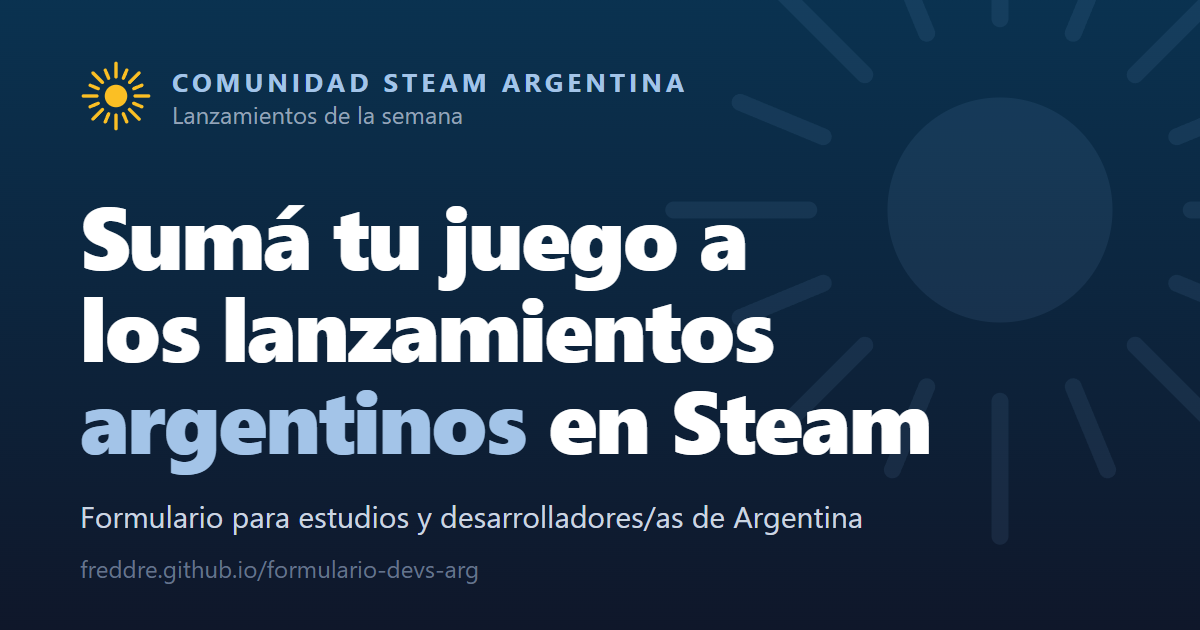
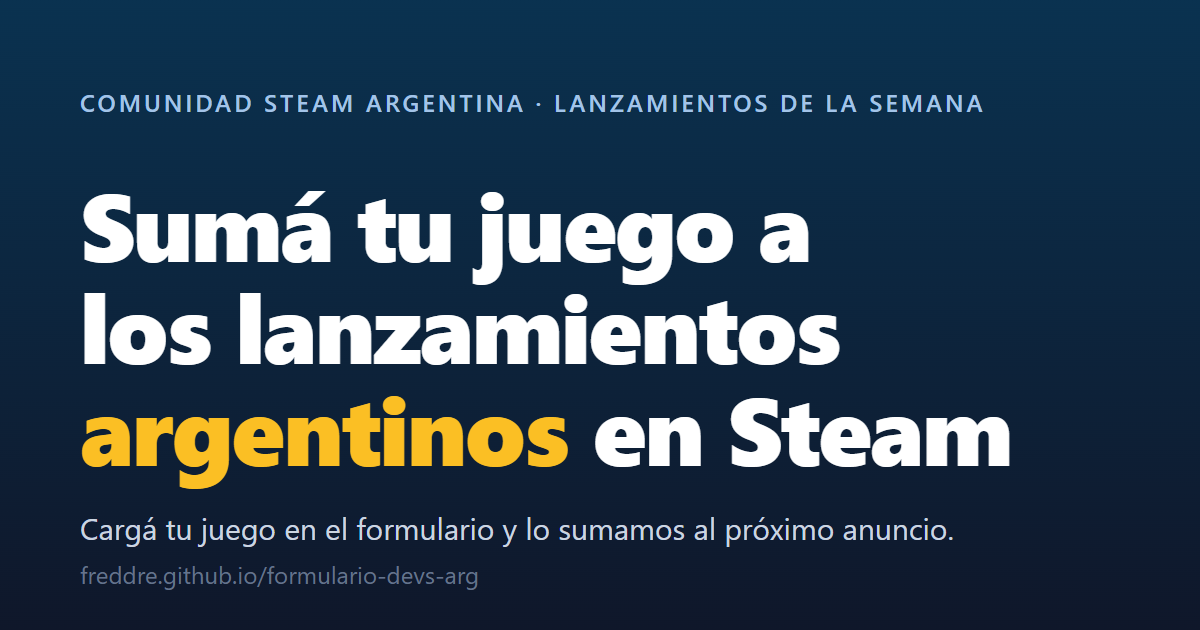
Remove the sun emblem and quick facts, highlight argentinos in yellow and break the hero paragraph
The hero goes back to a plain eyebrow line. The favicon returns to the flag tile and the share preview image drops the sun. Tests keep the header free of decorative graphics and quick facts.

Changed region(s): [[0.0617, 0.3016, 0.8633, 0.7841], [0.0617, 0.8143, 0.8017, 0.9349], [0.0617, 0.0905, 0.8325, 0.2111]]

diff --git a/docs/assets/index-B5moKPBN.css b/docs/assets/index-B5moKPBN.css
@@ -1,0 +1,2 @@
+/*! tailwindcss v4.3.3 | MIT License | https://tailwindcss.com */
+@layer properties{@supports (((-webkit-hyphens:none)) and (not (margin-trim:inline))) or ((-moz-orient:inline) and (not (color:rgb(from red r g b)))){*,:before,:after,::backdrop{--tw-space-y-reverse:0;--tw-border-style:solid;--tw-gradient-position:initial;--tw-gradient-from:#0000;--tw-gradient-via:#0000;--tw-gradient-to:#0000;--tw-gradient-stops:initial;--tw-gradient-via-stops:initial;--tw-gradient-from-position:0%;--tw-gradient-via-position:50%;--tw-gradient-to-position:100%;--tw-leading:initial;--tw-font-weight:initial;--tw-tracking:initial;--tw-shadow:0 0 #0000;--tw-shadow-color:initial;--tw-shadow-alpha:100%;--tw-inset-shadow:0 0 #0000;--tw-inset-shadow-color:initial;--tw-inset-shadow-alpha:100%;--tw-ring-color:initial;--tw-ring-shadow:0 0 #0000;--tw-inset-ring-color:initial;--tw-inset-ring-shadow:0 0 #0000;--tw-ring-inset:initial;--tw-ring-offset-width:0px;--tw-ring-offset-color:#fff;--tw-ring-offset-shadow:0 0 #0000;--tw-outline-style:solid}}}@layer theme{:root,:host{--font-sans:-apple-system, BlinkMacSystemFont, "Segoe UI", Roboto, "Helvetica Neue", "Noto Sans", Arial, sans-serif, "Apple Color Emoji", "Segoe UI Emoji", "Segoe UI Symbol", "Noto Color Emoji";--font-mono:ui-monospace, SFMono-Regular, Menlo, Monaco, Consolas, "Liberation Mono", "Courier New", monospace;--color-amber-300:oklch(87.9% .169 91.605);--color-amber-400:oklch(82.8% .189 84.429);--color-sky-950:oklch(29.3% .066 243.157);--color-slate-100:oklch(96.8% .007 247.896);--color-slate-200:oklch(92.9% .013 255.508);--color-slate-300:oklch(86.9% .022 252.894);--color-slate-400:oklch(70.4% .04 256.788);--color-slate-600:oklch(44.6% .043 257.281);--color-slate-800:oklch(27.9% .041 260.031);--color-slate-900:oklch(20.8% .042 265.755);--color-slate-950:oklch(12.9% .042 264.695);--color-black:#000;--color-white:#fff;--spacing:.25rem;--container-2xl:42rem;--container-3xl:48rem;--text-sm:.875rem;--text-sm--line-height:calc(1.25 / .875);--text-base:1rem;--text-base--line-height:calc(1.5 / 1);--text-lg:1.125rem;--text-lg--line-height:calc(1.75 / 1.125);--text-2xl:1.5rem;--text-2xl--line-height:calc(2 / 1.5);--text-3xl:1.875rem;--text-3xl--line-height:calc(2.25 / 1.875);--text-5xl:3rem;--text-5xl--line-height:1;--text-6xl:3.75rem;--text-6xl--line-height:1;--font-weight-medium:500;--font-weight-semibold:600;--font-weight-bold:700;--font-weight-extrabold:800;--tracking-tight:-.025em;--tracking-widest:.1em;--leading-relaxed:1.625;--radius-lg:.5rem;--radius-xl:.75rem;--radius-2xl:1rem;--default-font-family:var(--font-sans);--default-mono-font-family:var(--font-mono);--color-celeste-200:#cfe0f3;--color-celeste-300:#a3c4e8;--color-celeste-400:#75aadb}}@layer base{*,:after,:before,::backdrop{box-sizing:border-box;border:0 solid;margin:0;padding:0}::file-selector-button{box-sizing:border-box;border:0 solid;margin:0;padding:0}html,:host{-webkit-text-size-adjust:100%;tab-size:4;line-height:1.5;font-family:var(--default-font-family,-apple-system, BlinkMacSystemFont, "Segoe UI", Roboto, "Helvetica Neue", "Noto Sans", Arial, sans-serif, "Apple Color Emoji", "Segoe UI Emoji", "Segoe UI Symbol", "Noto Color Emoji");font-feature-settings:var(--default-font-feature-settings,normal);font-variation-settings:var(--default-font-variation-settings,normal);-webkit-tap-highlight-color:transparent}hr{height:0;color:inherit;border-top-width:1px}abbr:where([title]){-webkit-text-decoration:underline dotted;text-decoration:underline dotted}h1,h2,h3,h4,h5,h6{font-size:inherit;font-weight:inherit}a{color:inherit;-webkit-text-decoration:inherit;-webkit-text-decoration:inherit;-webkit-text-decoration:inherit;-webkit-text-decoration:inherit;text-decoration:inherit}b,strong{font-weight:bolder}code,kbd,samp,pre{font-family:var(--default-mono-font-family,ui-monospace, SFMono-Regular, Menlo, Monaco, Consolas, "Liberation Mono", "Courier New", monospace);font-feature-settings:var(--default-mono-font-feature-settings,normal);font-variation-settings:var(--default-mono-font-variation-settings,normal);font-size:1em}small{font-size:80%}sub,sup{vertical-align:baseline;font-size:75%;line-height:0;position:relative}sub{bottom:-.25em}sup{top:-.5em}table{text-indent:0;border-color:inherit;border-collapse:collapse}:-moz-focusring:where(:not(iframe)){outline:auto}progress{vertical-align:baseline}summary{display:list-item}ol,ul,menu{list-style:none}img,svg,video,canvas,audio,iframe,embed,object{vertical-align:middle;display:block}img,video{max-width:100%;height:auto}button,input,select,optgroup,textarea{font:inherit;font-feature-settings:inherit;font-variation-settings:inherit;letter-spacing:inherit;color:inherit;opacity:1;background-color:#0000;border-radius:0}::file-selector-button{font:inherit;font-feature-settings:inherit;font-variation-settings:inherit;letter-spacing:inherit;color:inherit;opacity:1;background-color:#0000;border-radius:0}:where(select:is([multiple],[size])) optgroup{font-weight:bolder}:where(select:is([multiple],[size])) optgroup option{padding-inline-start:20px}::file-selector-button{margin-inline-end:4px}::placeholder{opacity:1}@supports (not ((-webkit-appearance:-apple-pay-button))) or (contain-intrinsic-size:1px){::placeholder{color:currentColor}@supports (color:color-mix(in lab, red, red)){::placeholder{color:color-mix(in oklab, currentcolor 50%, transparent)}}}textarea{resize:vertical}::-webkit-search-decoration{-webkit-appearance:none}::-webkit-date-and-time-value{min-height:1lh;text-align:inherit}::-webkit-datetime-edit{display:inline-flex}::-webkit-datetime-edit-fields-wrapper{padding:0}::-webkit-datetime-edit{padding-block:0}::-webkit-datetime-edit-year-field{padding-block:0}::-webkit-datetime-edit-month-field{padding-block:0}::-webkit-datetime-edit-day-field{padding-block:0}::-webkit-datetime-edit-hour-field{padding-block:0}::-webkit-datetime-edit-minute-field{padding-block:0}::-webkit-datetime-edit-second-field{padding-block:0}::-webkit-datetime-edit-millisecond-field{padding-block:0}::-webkit-datetime-edit-meridiem-field{padding-block:0}::-webkit-calendar-picker-indicator{line-height:1}:-moz-ui-invalid{box-shadow:none}button,input:where([type=button],[type=reset],[type=submit]){appearance:button}::file-selector-button{appearance:button}::-webkit-inner-spin-button{height:auto}::-webkit-outer-spin-button{height:auto}[hidden]:where(:not([hidden=until-found])){display:none!important}}@layer components;@layer utilities{.visible{visibility:visible}.sr-only{clip-path:inset(50%);white-space:nowrap;border-width:0;width:1px;height:1px;margin:-1px;padding:0;position:absolute;overflow:hidden}.absolute{position:absolute}.relative{position:relative}.inset-x-0{inset-inline:0}.top-10{top:calc(var(--spacing) * 10)}.mx-auto{margin-inline:auto}.mt-0\.5{margin-top:calc(var(--spacing) * .5)}.mt-1{margin-top:var(--spacing)}.mt-2{margin-top:calc(var(--spacing) * 2)}.mt-3{margin-top:calc(var(--spacing) * 3)}.mt-4{margin-top:calc(var(--spacing) * 4)}.mt-5{margin-top:calc(var(--spacing) * 5)}.mt-6{margin-top:calc(var(--spacing) * 6)}.mt-8{margin-top:calc(var(--spacing) * 8)}.block{display:block}.flex{display:flex}.grid{display:grid}.hidden{display:none}.inline-block{display:inline-block}.inline-flex{display:inline-flex}.size-0{width:0;height:0}.size-4{width:calc(var(--spacing) * 4);height:calc(var(--spacing) * 4)}.size-5{width:calc(var(--spacing) * 5);height:calc(var(--spacing) * 5)}.size-6{width:calc(var(--spacing) * 6);height:calc(var(--spacing) * 6)}.size-11{width:calc(var(--spacing) * 11);height:calc(var(--spacing) * 11)}.h-\[539px\]{height:539px}.h-\[max\(2440px\,calc\(3126px_-_3\.56\*\(100vw_-_320px\)\)\,calc\(3205px_-_100vw\)\)\]{height:max(2440px,4265.2px - 356vw,3205px - 100vw)}.min-h-11{min-height:calc(var(--spacing) * 11)}.min-h-screen{min-height:100vh}.w-full{width:100%}.max-w-2xl{max-width:var(--container-2xl)}.max-w-3xl{max-width:var(--container-3xl)}.shrink-0{flex-shrink:0}.scroll-mt-6{scroll-margin-top:calc(var(--spacing) * 6)}.flex-wrap{flex-wrap:wrap}.items-center{align-items:center}.justify-between{justify-content:space-between}.justify-center{justify-content:center}.gap-2{gap:calc(var(--spacing) * 2)}.gap-3{gap:calc(var(--spacing) * 3)}.gap-4{gap:calc(var(--spacing) * 4)}:where(.space-y-3>:not(:last-child)){--tw-space-y-reverse:0;margin-block-start:calc(calc(var(--spacing) * 3) * var(--tw-space-y-reverse));margin-block-end:calc(calc(var(--spacing) * 3) * calc(1 - var(--tw-space-y-reverse)))}:where(.space-y-14>:not(:last-child)){--tw-space-y-reverse:0;margin-block-start:calc(calc(var(--spacing) * 14) * var(--tw-space-y-reverse));margin-block-end:calc(calc(var(--spacing) * 14) * calc(1 - var(--tw-space-y-reverse)))}.gap-x-6{column-gap:calc(var(--spacing) * 6)}.overflow-hidden{overflow:hidden}.scroll-smooth{scroll-behavior:smooth}.rounded-2xl{border-radius:var(--radius-2xl)}.rounded-full{border-radius:2147483647px}.rounded-lg{border-radius:var(--radius-lg)}.rounded-xl{border-radius:var(--radius-xl)}.border{border-style:var(--tw-border-style);border-width:1px}.border-0{border-style:var(--tw-border-style);border-width:0}.border-t{border-top-style:var(--tw-border-style);border-top-width:1px}.border-white\/10{border-color:#ffffff1a}@supports (color:color-mix(in lab, red, red)){.border-white\/10{border-color:color-mix(in oklab, var(--color-white) 10%, transparent)}}.bg-amber-400{background-color:var(--color-amber-400)}.bg-amber-400\/15{background-color:#fcbb0026}@supports (color:color-mix(in lab, red, red)){.bg-amber-400\/15{background-color:color-mix(in oklab, var(--color-amber-400) 15%, transparent)}}.bg-celeste-400\/15{background-color:#75aadb26}@supports (color:color-mix(in lab, red, red)){.bg-celeste-400\/15{background-color:color-mix(in oklab, var(--color-celeste-400) 15%, transparent)}}.bg-slate-800\/50{background-color:#1d293d80}@supports (color:color-mix(in lab, red, red)){.bg-slate-800\/50{background-color:color-mix(in oklab, var(--color-slate-800) 50%, transparent)}}.bg-slate-900{background-color:var(--color-slate-900)}.bg-slate-950{background-color:var(--color-slate-950)}.bg-white{background-color:var(--color-white)}.bg-linear-to-b{--tw-gradient-position:to bottom}@supports (background-image:linear-gradient(in lab, red, red)){.bg-linear-to-b{--tw-gradient-position:to bottom in oklab}}.bg-linear-to-b{background-image:linear-gradient(var(--tw-gradient-stops))}.from-sky-950\/70{--tw-gradient-from:#052f4ab3}@supports (color:color-mix(in lab, red, red)){.from-sky-950\/70{--tw-gradient-from:color-mix(in oklab, var(--color-sky-950) 70%, transparent)}}.from-sky-950\/70{--tw-gradient-stops:var(--tw-gradient-via-stops,var(--tw-gradient-position), var(--tw-gradient-from) var(--tw-gradient-from-position), var(--tw-gradient-to) var(--tw-gradient-to-position))}.to-slate-900{--tw-gradient-to:var(--color-slate-900);--tw-gradient-stops:var(--tw-gradient-via-stops,var(--tw-gradient-position), var(--tw-gradient-from) var(--tw-gradient-from-position), var(--tw-gradient-to) var(--tw-gradient-to-position))}.p-5{padding:calc(var(--spacing) * 5)}.px-3{padding-inline:calc(var(--spacing) * 3)}.px-4{padding-inline:calc(var(--spacing) * 4)}.px-6{padding-inline:calc(var(--spacing) * 6)}.py-2{padding-block:calc(var(--spacing) * 2)}.py-3{padding-block:calc(var(--spacing) * 3)}.py-10{padding-block:calc(var(--spacing) * 10)}.py-12{padding-block:calc(var(--spacing) * 12)}.pt-4{padding-top:calc(var(--spacing) * 4)}.pb-16{padding-bottom:calc(var(--spacing) * 16)}.text-center{text-align:center}.font-sans{font-family:var(--font-sans)}.text-2xl{font-size:var(--text-2xl);line-height:var(--tw-leading,var(--text-2xl--line-height))}.text-3xl{font-size:var(--text-3xl);line-height:var(--tw-leading,var(--text-3xl--line-height))}.text-base{font-size:var(--text-base);line-height:var(--tw-leading,var(--text-base--line-height))}.text-lg{font-size:var(--text-lg);line-height:var(--tw-leading,var(--text-lg--line-height))}.text-sm{font-size:var(--text-sm);line-height:var(--tw-leading,var(--text-sm--line-height))}.leading-relaxed{--tw-leading:var(--leading-relaxed);line-height:var(--leading-relaxed)}.font-bold{--tw-font-weight:var(--font-weight-bold);font-weight:var(--font-weight-bold)}.font-extrabold{--tw-font-weight:var(--font-weight-extrabold);font-weight:var(--font-weight-extrabold)}.font-medium{--tw-font-weight:var(--font-weight-medium);font-weight:var(--font-weight-medium)}.font-semibold{--tw-font-weight:var(--font-weight-semibold);font-weight:var(--font-weight-semibold)}.tracking-tight{--tw-tracking:var(--tracking-tight);letter-spacing:var(--tracking-tight)}.tracking-widest{--tw-tracking:var(--tracking-widest);letter-spacing:var(--tracking-widest)}.text-balance{text-wrap:balance}.text-pretty{text-wrap:pretty}.text-amber-300{color:var(--color-amber-300)}.text-amber-400{color:var(--color-amber-400)}.text-celeste-300{color:var(--color-celeste-300)}.text-slate-100{color:var(--color-slate-100)}.text-slate-200{color:var(--color-slate-200)}.text-slate-300{color:var(--color-slate-300)}.text-slate-400{color:var(--color-slate-400)}.text-slate-600{color:var(--color-slate-600)}.text-slate-900{color:var(--color-slate-900)}.text-white{color:var(--color-white)}.uppercase{text-transform:uppercase}.underline{text-decoration-line:underline}.underline-offset-4{text-underline-offset:4px}.antialiased{-webkit-font-smoothing:antialiased;-moz-osx-font-smoothing:grayscale}.shadow-lg{--tw-shadow:0 10px 15px -3px var(--tw-shadow-color,#0000001a), 0 4px 6px -4px var(--tw-shadow-color,#0000001a);box-shadow:var(--tw-inset-shadow), var(--tw-inset-ring-shadow), var(--tw-ring-offset-shadow), var(--tw-ring-shadow), var(--tw-shadow)}.shadow-xl{--tw-shadow:0 20px 25px -5px var(--tw-shadow-color,#0000001a), 0 8px 10px -6px var(--tw-shadow-color,#0000001a);box-shadow:var(--tw-inset-shadow), var(--tw-inset-ring-shadow), var(--tw-ring-offset-shadow), var(--tw-ring-shadow), var(--tw-shadow)}.ring-1{--tw-ring-shadow:var(--tw-ring-inset,) 0 0 0 calc(1px + var(--tw-ring-offset-width)) var(--tw-ring-color,currentcolor);box-shadow:var(--tw-inset-shadow), var(--tw-inset-ring-shadow), var(--tw-ring-offset-shadow), var(--tw-ring-shadow), var(--tw-shadow)}.shadow-amber-400\/10{--tw-shadow-color:#fcbb001a}@supports (color:color-mix(in lab, red, red)){.shadow-amber-400\/10{--tw-shadow-color:color-mix(in oklab, color-mix(in oklab, var(--color-amber-400) 10%, transparent) var(--tw-shadow-alpha), transparent)}}.shadow-black\/10{--tw-shadow-color:#0000001a}@supports (color:color-mix(in lab, red, red)){.shadow-black\/10{--tw-shadow-color:color-mix(in oklab, color-mix(in oklab, var(--color-black) 10%, transparent) var(--tw-shadow-alpha), transparent)}}.shadow-black\/30{--tw-shadow-color:#0000004d}@supports (color:color-mix(in lab, red, red)){.shadow-black\/30{--tw-shadow-color:color-mix(in oklab, color-mix(in oklab, var(--color-black) 30%, transparent) var(--tw-shadow-alpha), transparent)}}.ring-celeste-400\/30{--tw-ring-color:#75aadb4d}@supports (color:color-mix(in lab, red, red)){.ring-celeste-400\/30{--tw-ring-color:color-mix(in oklab, var(--color-celeste-400) 30%, transparent)}}.ring-white\/10{--tw-ring-color:#ffffff1a}@supports (color:color-mix(in lab, red, red)){.ring-white\/10{--tw-ring-color:color-mix(in oklab, var(--color-white) 10%, transparent)}}@media (hover:hover){.hover\:bg-amber-300:hover{background-color:var(--color-amber-300)}.hover\:text-celeste-200:hover{color:var(--color-celeste-200)}}.focus\:not-sr-only:focus{clip-path:none;white-space:normal;width:auto;height:auto;margin:0;padding:0;position:static;overflow:visible}.focus\:absolute:focus{position:absolute}.focus\:top-4:focus{top:calc(var(--spacing) * 4)}.focus\:left-4:focus{left:calc(var(--spacing) * 4)}.focus\:z-50:focus{z-index:50}.focus\:rounded-lg:focus{border-radius:var(--radius-lg)}.focus\:bg-amber-400:focus{background-color:var(--color-amber-400)}.focus\:px-4:focus{padding-inline:calc(var(--spacing) * 4)}.focus\:py-3:focus{padding-block:calc(var(--spacing) * 3)}.focus\:font-semibold:focus{--tw-font-weight:var(--font-weight-semibold);font-weight:var(--font-weight-semibold)}.focus\:text-slate-900:focus{color:var(--color-slate-900)}.focus-visible\:outline-2:focus-visible{outline-style:var(--tw-outline-style);outline-width:2px}.focus-visible\:outline-offset-2:focus-visible{outline-offset:2px}.focus-visible\:outline-offset-4:focus-visible{outline-offset:4px}.focus-visible\:outline-celeste-300:focus-visible{outline-color:var(--color-celeste-300)}@media (prefers-reduced-motion:reduce){.motion-reduce\:scroll-auto{scroll-behavior:auto}}@media (width>=360px){.min-\[360px\]\:h-\[479px\]{height:479px}}@media (width>=416px){.min-\[416px\]\:h-\[439px\]{height:439px}}@media (width>=448px){.min-\[448px\]\:h-\[419px\]{height:419px}}@media (width>=584px){.min-\[584px\]\:h-\[399px\]{height:399px}}@media (width>=624px){.min-\[624px\]\:h-\[359px\]{height:359px}}@media (width>=40rem){.sm\:grid-cols-3{grid-template-columns:repeat(3,minmax(0,1fr))}.sm\:py-16{padding-block:calc(var(--spacing) * 16)}.sm\:text-5xl{font-size:var(--text-5xl);line-height:var(--tw-leading,var(--text-5xl--line-height))}}@media (width>=48rem){.md\:text-6xl{font-size:var(--text-6xl);line-height:var(--tw-leading,var(--text-6xl--line-height))}}}@property --tw-space-y-reverse{syntax:"*";inherits:false;initial-value:0}@property --tw-border-style{syntax:"*";inherits:false;initial-value:solid}@property --tw-gradient-position{syntax:"*";inherits:false}@property --tw-gradient-from{syntax:"<color>";inherits:false;initial-value:#0000}@property --tw-gradient-via{syntax:"<color>";inherits:false;initial-value:#0000}@property --tw-gradient-to{syntax:"<color>";inherits:false;initial-value:#0000}@property --tw-gradient-stops{syntax:"*";inherits:false}@property --tw-gradient-via-stops{syntax:"*";inherits:false}@property --tw-gradient-from-position{syntax:"<length-percentage>";inherits:false;initial-value:0%}@property --tw-gradient-via-position{syntax:"<length-percentage>";inherits:false;initial-value:50%}@property --tw-gradient-to-position{syntax:"<length-percentage>";inherits:false;initial-value:100%}@property --tw-leading{syntax:"*";inherits:false}@property --tw-font-weight{syntax:"*";inherits:false}@property --tw-tracking{syntax:"*";inherits:false}@property --tw-shadow{syntax:"*";inherits:false;initial-value:0 0 #0000}@property --tw-shadow-color{syntax:"*";inherits:false}@property --tw-shadow-alpha{syntax:"<percentage>";inherits:false;initial-value:100%}@property --tw-inset-shadow{syntax:"*";inherits:false;initial-value:0 0 #0000}@property --tw-inset-shadow-color{syntax:"*";inherits:false}@property --tw-inset-shadow-alpha{syntax:"<percentage>";inherits:false;initial-value:100%}@property --tw-ring-color{syntax:"*";inherits:false}@property --tw-ring-shadow{syntax:"*";inherits:false;initial-value:0 0 #0000}@property --tw-inset-ring-color{syntax:"*";inherits:false}@property --tw-inset-ring-shadow{syntax:"*";inherits:false;initial-value:0 0 #0000}@property --tw-ring-inset{syntax:"*";inherits:false}@property --tw-ring-offset-width{syntax:"<length>";inherits:false;initial-value:0}@property --tw-ring-offset-color{syntax:"*";inherits:false;initial-value:#fff}@property --tw-ring-offset-shadow{syntax:"*";inherits:false;initial-value:0 0 #0000}@property --tw-outline-style{syntax:"*";inherits:false;initial-value:solid}

diff --git a/docs/index.html b/docs/index.html
@@ -45,34 +45,12 @@
       gtag('js', new Date());
       gtag('config', 'G-6ZSDPSM4NG');
     </script>
-    <script type="module" crossorigin src="./assets/index-DbMbM82r.js"></script>
-    <link rel="stylesheet" crossorigin href="./assets/index-wlffSRaR.css">
+    <script type="module" crossorigin src="./assets/index-nvVmQw8c.js"></script>
+    <link rel="stylesheet" crossorigin href="./assets/index-B5moKPBN.css">
   </head>
   <body class="min-h-screen bg-slate-900 font-sans text-base leading-relaxed text-slate-100 antialiased">
     <!-- Shared SVG symbols, used with <use href="#id">. Colors come from currentColor (text-* utilities). -->
     <svg xmlns="http://www.w3.org/2000/svg" aria-hidden="true" class="absolute size-0 overflow-hidden">
-      <!-- Sun (inspired by the Sol de Mayo): a disc and 16 rays, long and short alternating. The ray thickness comes from stroke-width on the <svg> that uses it. -->
-      <symbol id="sol" viewBox="0 0 64 64">
-        <circle cx="32" cy="32" r="10" fill="currentColor" />
-        <g stroke="currentColor" stroke-linecap="round">
-          <line x1="32" y1="15" x2="32" y2="3" />
-          <line x1="38.51" y1="16.29" x2="41.57" y2="8.9" />
-          <line x1="44.02" y1="19.98" x2="52.51" y2="11.49" />
-          <line x1="47.71" y1="25.49" x2="55.1" y2="22.43" />
-          <line x1="49" y1="32" x2="61" y2="32" />
-          <line x1="47.71" y1="38.51" x2="55.1" y2="41.57" />
-          <line x1="44.02" y1="44.02" x2="52.51" y2="52.51" />
-          <line x1="38.51" y1="47.71" x2="41.57" y2="55.1" />
-          <line x1="32" y1="49" x2="32" y2="61" />
-          <line x1="25.49" y1="47.71" x2="22.43" y2="55.1" />
-          <line x1="19.98" y1="44.02" x2="11.49" y2="52.51" />
-          <line x1="16.29" y1="38.51" x2="8.9" y2="41.57" />
-          <line x1="15" y1="32" x2="3" y2="32" />
-          <line x1="16.29" y1="25.49" x2="8.9" y2="22.43" />
-          <line x1="19.98" y1="19.98" x2="11.49" y2="11.49" />
-          <line x1="25.49" y1="16.29" x2="22.43" y2="8.9" />
-        </g>
-      </symbol>
       <symbol id="check" viewBox="0 0 16 16">
         <path
           d="m3.5 8.5 3 3 6-6.5"
@@ -101,27 +79,17 @@
       >Saltar al formulario</a
     >
 
-    <header class="relative overflow-hidden bg-linear-to-b from-sky-950/70 to-slate-900">
-      <svg
-        aria-hidden="true"
-        stroke-width="1.5"
-        class="pointer-events-none absolute -top-10 -right-32 size-72 text-celeste-400/[0.09] sm:-top-24 sm:-right-16 sm:size-[30rem]"
-      >
-        <use href="#sol" />
-      </svg>
-      <div class="relative mx-auto max-w-3xl px-4 py-12 sm:py-16">
-        <p class="flex items-center gap-3">
-          <svg aria-hidden="true" stroke-width="3" class="size-10 shrink-0 text-amber-400"><use href="#sol" /></svg>
-          <span class="flex flex-col leading-tight">
-            <span class="text-sm font-bold tracking-widest text-celeste-300 uppercase">Comunidad Steam Argentina</span>
-            <span class="text-sm text-slate-400">Lanzamientos de la semana</span>
-          </span>
+    <header class="bg-linear-to-b from-sky-950/70 to-slate-900">
+      <div class="mx-auto max-w-3xl px-4 py-12 sm:py-16">
+        <p class="text-sm font-semibold tracking-widest text-celeste-300 uppercase">
+          Comunidad Steam Argentina · Lanzamientos de la semana
         </p>
-        <h1 class="mt-6 text-3xl font-extrabold tracking-tight text-balance text-white sm:text-5xl md:text-6xl">
-          Sumá tu juego a los lanzamientos <span class="text-celeste-300">argentinos</span> en Steam
+        <h1 class="mt-3 text-3xl font-extrabold tracking-tight text-balance text-white sm:text-5xl md:text-6xl">
+          Sumá tu juego a los lanzamientos <span class="text-amber-400">argentinos</span> en Steam
         </h1>
         <p class="mt-5 max-w-2xl text-lg text-pretty text-slate-300">
           Todas las semanas la Comunidad Steam Argentina anuncia los juegos que lanzan estudios y desarrolladores/as de acá.
+          <br />
           Cargá el tuyo en este formulario y lo sumamos al próximo anuncio.
         </p>
         
@@ -132,16 +100,6 @@
             >Cargar mi juego<svg aria-hidden="true" class="size-5"><use href="#arrow-down" /></svg
           ></a>
         </p>
-        <ul role="list" class="mt-6 flex flex-wrap gap-x-6 gap-y-2 text-sm text-slate-300">
-          <li class="flex items-center gap-2">
-            <svg aria-hidden="true" class="size-4 shrink-0 text-celeste-400"><use href="#check" /></svg>
-            Lleva menos de 2 minutos
-          </li>
-          <li class="flex items-center gap-2">
-            <svg aria-hidden="true" class="size-4 shrink-0 text-celeste-400"><use href="#check" /></svg>
-            Solo para estudios con base en Argentina
-          </li>
-        </ul>
       </div>
     </header>
 
@@ -327,10 +285,7 @@
 
     <footer class="border-t border-white/10 bg-slate-950">
       <div class="mx-auto max-w-3xl px-4 py-10 text-sm text-slate-400">
-        <p class="flex items-center gap-3 font-semibold text-slate-200">
-          <svg aria-hidden="true" stroke-width="3" class="size-8 shrink-0 text-amber-400"><use href="#sol" /></svg>
-          Comunidad Steam Argentina
-        </p>
+        <p class="font-semibold text-slate-200">Comunidad Steam Argentina</p>
         <p class="mt-4 max-w-2xl">
           Proyecto independiente de la comunidad. No está afiliado ni respaldado por Valve Corporation. Steam es una
           marca registrada de Valve Corporation.

diff --git a/index.html b/index.html
@@ -50,28 +50,6 @@
   <body class="min-h-screen bg-slate-900 font-sans text-base leading-relaxed text-slate-100 antialiased">
     <!-- Shared SVG symbols, used with <use href="#id">. Colors come from currentColor (text-* utilities). -->
     <svg xmlns="http://www.w3.org/2000/svg" aria-hidden="true" class="absolute size-0 overflow-hidden">
-      <!-- Sun (inspired by the Sol de Mayo): a disc and 16 rays, long and short alternating. The ray thickness comes from stroke-width on the <svg> that uses it. -->
-      <symbol id="sol" viewBox="0 0 64 64">
-        <circle cx="32" cy="32" r="10" fill="currentColor" />
-        <g stroke="currentColor" stroke-linecap="round">
-          <line x1="32" y1="15" x2="32" y2="3" />
-          <line x1="38.51" y1="16.29" x2="41.57" y2="8.9" />
-          <line x1="44.02" y1="19.98" x2="52.51" y2="11.49" />
-          <line x1="47.71" y1="25.49" x2="55.1" y2="22.43" />
-          <line x1="49" y1="32" x2="61" y2="32" />
-          <line x1="47.71" y1="38.51" x2="55.1" y2="41.57" />
-          <line x1="44.02" y1="44.02" x2="52.51" y2="52.51" />
-          <line x1="38.51" y1="47.71" x2="41.57" y2="55.1" />
-          <line x1="32" y1="49" x2="32" y2="61" />
-          <line x1="25.49" y1="47.71" x2="22.43" y2="55.1" />
-          <line x1="19.98" y1="44.02" x2="11.49" y2="52.51" />
-          <line x1="16.29" y1="38.51" x2="8.9" y2="41.57" />
-          <line x1="15" y1="32" x2="3" y2="32" />
-          <line x1="16.29" y1="25.49" x2="8.9" y2="22.43" />
-          <line x1="19.98" y1="19.98" x2="11.49" y2="11.49" />
-          <line x1="25.49" y1="16.29" x2="22.43" y2="8.9" />
-        </g>
-      </symbol>
       <symbol id="check" viewBox="0 0 16 16">
         <path
           d="m3.5 8.5 3 3 6-6.5"
@@ -100,27 +78,17 @@
       >Saltar al formulario</a
     >
 
-    <header class="relative overflow-hidden bg-linear-to-b from-sky-950/70 to-slate-900">
-      <svg
-        aria-hidden="true"
-        stroke-width="1.5"
-        class="pointer-events-none absolute -top-10 -right-32 size-72 text-celeste-400/[0.09] sm:-top-24 sm:-right-16 sm:size-[30rem]"
-      >
-        <use href="#sol" />
-      </svg>
-      <div class="relative mx-auto max-w-3xl px-4 py-12 sm:py-16">
-        <p class="flex items-center gap-3">
-          <svg aria-hidden="true" stroke-width="3" class="size-10 shrink-0 text-amber-400"><use href="#sol" /></svg>
-          <span class="flex flex-col leading-tight">
-            <span class="text-sm font-bold tracking-widest text-celeste-300 uppercase">{{steamGroupName}}</span>
-            <span class="text-sm text-slate-400">Lanzamientos de la semana</span>
-          </span>
+    <header class="bg-linear-to-b from-sky-950/70 to-slate-900">
+      <div class="mx-auto max-w-3xl px-4 py-12 sm:py-16">
+        <p class="text-sm font-semibold tracking-widest text-celeste-300 uppercase">
+          {{steamGroupName}} · Lanzamientos de la semana
         </p>
-        <h1 class="mt-6 text-3xl font-extrabold tracking-tight text-balance text-white sm:text-5xl md:text-6xl">
-          Sumá tu juego a los lanzamientos <span class="text-celeste-300">argentinos</span> en Steam
+        <h1 class="mt-3 text-3xl font-extrabold tracking-tight text-balance text-white sm:text-5xl md:text-6xl">
+          Sumá tu juego a los lanzamientos <span class="text-amber-400">argentinos</span> en Steam
         </h1>
         <p class="mt-5 max-w-2xl text-lg text-pretty text-slate-300">
           Todas las semanas la {{steamGroupName}} anuncia los juegos que lanzan estudios y desarrolladores/as de acá.
+          <br />
           Cargá el tuyo en este formulario y lo sumamos al próximo anuncio.
         </p>
         {{#if cutoffText}}
@@ -135,16 +103,6 @@
             >Cargar mi juego<svg aria-hidden="true" class="size-5"><use href="#arrow-down" /></svg
           ></a>
         </p>
-        <ul role="list" class="mt-6 flex flex-wrap gap-x-6 gap-y-2 text-sm text-slate-300">
-          <li class="flex items-center gap-2">
-            <svg aria-hidden="true" class="size-4 shrink-0 text-celeste-400"><use href="#check" /></svg>
-            Lleva menos de 2 minutos
-          </li>
-          <li class="flex items-center gap-2">
-            <svg aria-hidden="true" class="size-4 shrink-0 text-celeste-400"><use href="#check" /></svg>
-            Solo para estudios con base en Argentina
-          </li>
-        </ul>
       </div>
     </header>
 
@@ -330,10 +288,7 @@
 
     <footer class="border-t border-white/10 bg-slate-950">
       <div class="mx-auto max-w-3xl px-4 py-10 text-sm text-slate-400">
-        <p class="flex items-center gap-3 font-semibold text-slate-200">
-          <svg aria-hidden="true" stroke-width="3" class="size-8 shrink-0 text-amber-400"><use href="#sol" /></svg>
-          {{steamGroupName}}
-        </p>
+        <p class="font-semibold text-slate-200">{{steamGroupName}}</p>
         <p class="mt-4 max-w-2xl">
           Proyecto independiente de la comunidad. No está afiliado ni respaldado por Valve Corporation. Steam es una
           marca registrada de Valve Corporation.

diff --git a/tests/page-content.test.ts b/tests/page-content.test.ts
@@ -49,6 +49,41 @@ describe('branding', () => {
   });
 });
 
+describe('hero', () => {
+  const header = (): Element => {
+    const element = doc.querySelector('header');
+    if (element === null) {
+      throw new Error('the page has no header');
+    }
+    return element;
+  };
+
+  it('has no decorative graphics: the only SVG is the arrow of the call to action', () => {
+    const svgs = header().querySelectorAll('svg');
+    expect(svgs).toHaveLength(1);
+    expect(svgs[0]?.querySelector('use')?.getAttribute('href')).toBe('#arrow-down');
+    expect(doc.getElementById('sol')).toBeNull();
+  });
+
+  it('highlights "argentinos" in yellow in the heading', () => {
+    const accent = header().querySelector('h1 span');
+    expect(accent?.textContent).toBe('argentinos');
+    expect(accent?.className).toContain('text-amber-400');
+  });
+
+  it('does not list quick facts under the button', () => {
+    expect(header().querySelector('ul')).toBeNull();
+    expect(header().textContent).not.toMatch(/Lleva menos de 2 minutos/);
+    expect(header().textContent).not.toMatch(/Solo para estudios con base en Argentina/);
+  });
+
+  it('starts the call to action sentence on its own line', () => {
+    const intro = [...header().querySelectorAll('p')].find((p) => p.textContent?.includes('Cargá el tuyo'));
+    expect(intro).toBeDefined();
+    expect(intro?.innerHTML).toMatch(/de acá\.\s*<br>\s*Cargá el tuyo en este formulario/);
+  });
+});
+
 describe('document', () => {
   it('has a single h1 that carries the pitch', () => {
     const headings = doc.querySelectorAll('h1');

diff --git a/README.md b/README.md
@@ -118,9 +118,11 @@ or too tall for its table.
 - **Name**: always "Comunidad Steam Argentina", never "Steam Argentina" alone, and the footer states that the project
   is independent of Valve. `tests/page-content.test.ts` fails if either rule is broken, so the site cannot pass as an
   official Steam page.
-- **Emblem**: a sun inspired by the Sol de Mayo, drawn once as an inline SVG symbol (`#sol` in `index.html`) and reused
-  for the brand mark, the faint hero watermark and the footer. `public/favicon.svg` is the same sun on a dark tile.
-  There is deliberately no flag stripe: the Argentine identity comes from the celeste accent and the gold sun.
+- **No decorative marks**: the hero has no flag stripes and no emblem on purpose (both were tried and dropped as
+  looking odd). `tests/page-content.test.ts` keeps the header free of graphics other than the arrow of the button.
+  The Argentine identity comes from the celeste accent colour and the flag tile in `public/favicon.svg`.
+- **Hero copy**: "Cargá el tuyo en este formulario..." starts on its own line (`<br />`). The hero does not repeat the
+  eligibility or how long the form takes: they live in the requirements section and in the form itself.
 - **Palette**: Tailwind's `celeste-*` tokens (the flag's light blue) are defined in `src/styles.css`; gold is
   `amber-400`. Tailwind's `sky-*` is only used for the hero gradient.
 - **Share preview**: `public/og-image.png` (1200x630) is what Discord, WhatsApp or X show when the link is pasted.
@@ -143,7 +145,7 @@ Close the form, then disable GitHub Pages (Settings -> Pages) or delete the repo
 
 ```
 site.config.json     public values (see Configuration)
-index.html           es-AR markup; {{placeholders}} are filled at build time; inline SVG symbols (sun, check, arrow)
+index.html           es-AR markup; {{placeholders}} are filled at build time; inline SVG symbols (check, arrow)
 vite.config.ts       base './', output to docs/, Tailwind and html-config plugins, Vitest config
 public/              favicon.svg, og-image.png, .nojekyll (copied as they are to docs/)
 tools/html-config.ts template renderer + Vite plugin that validates site.config.json
